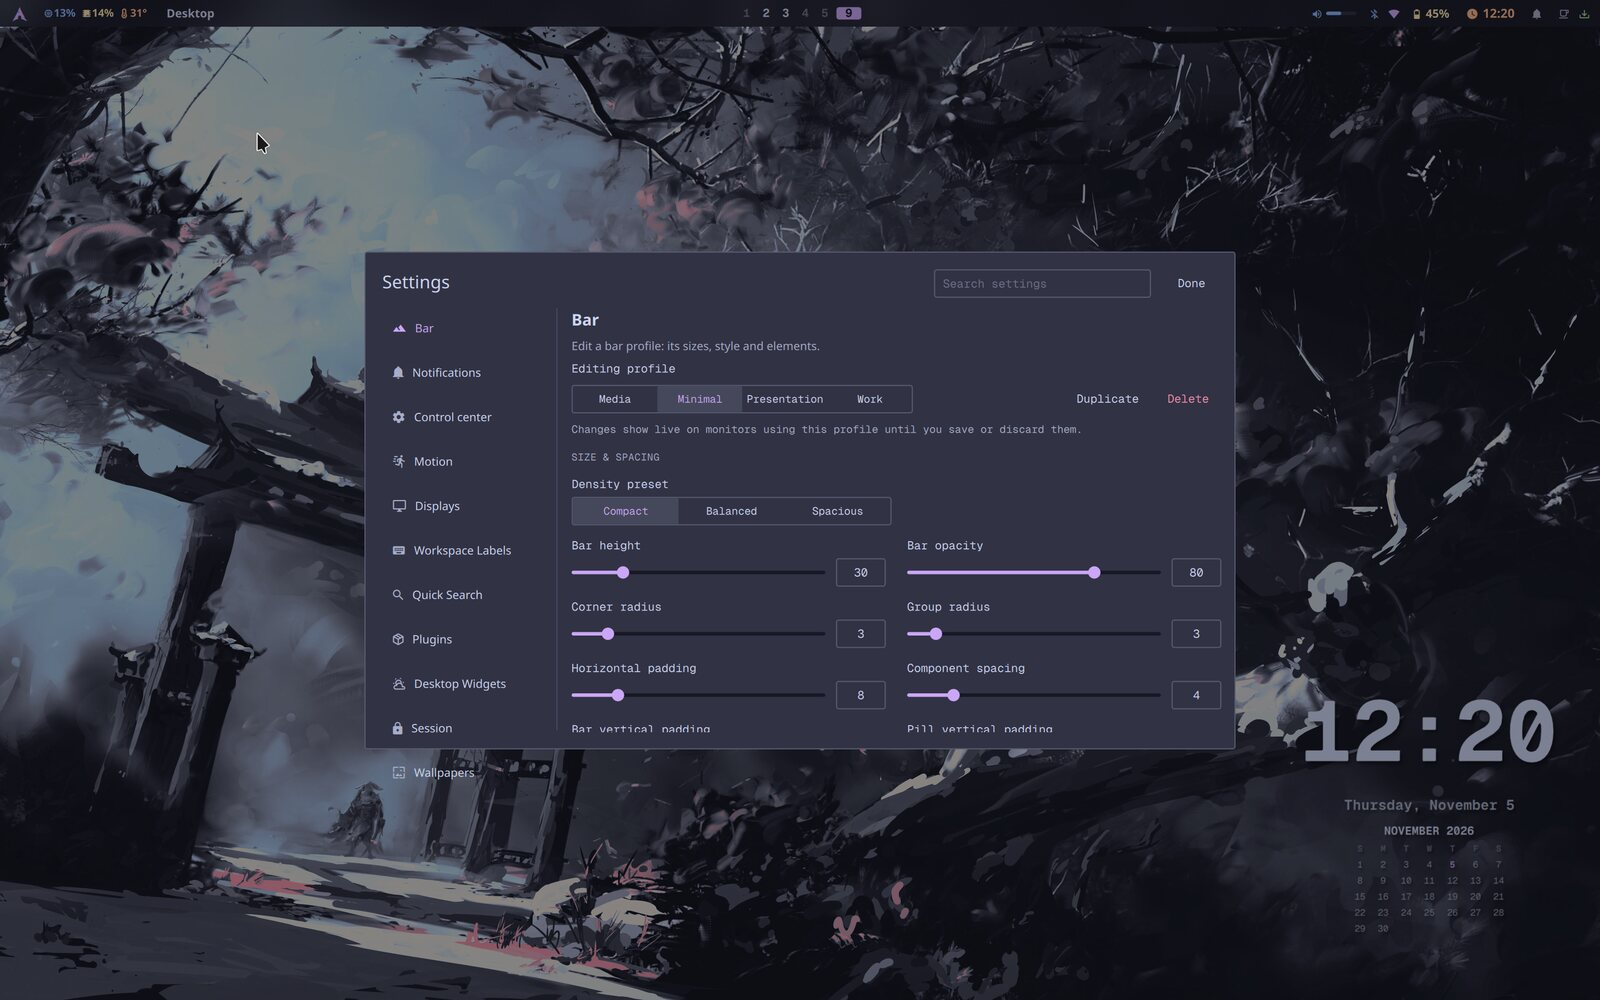
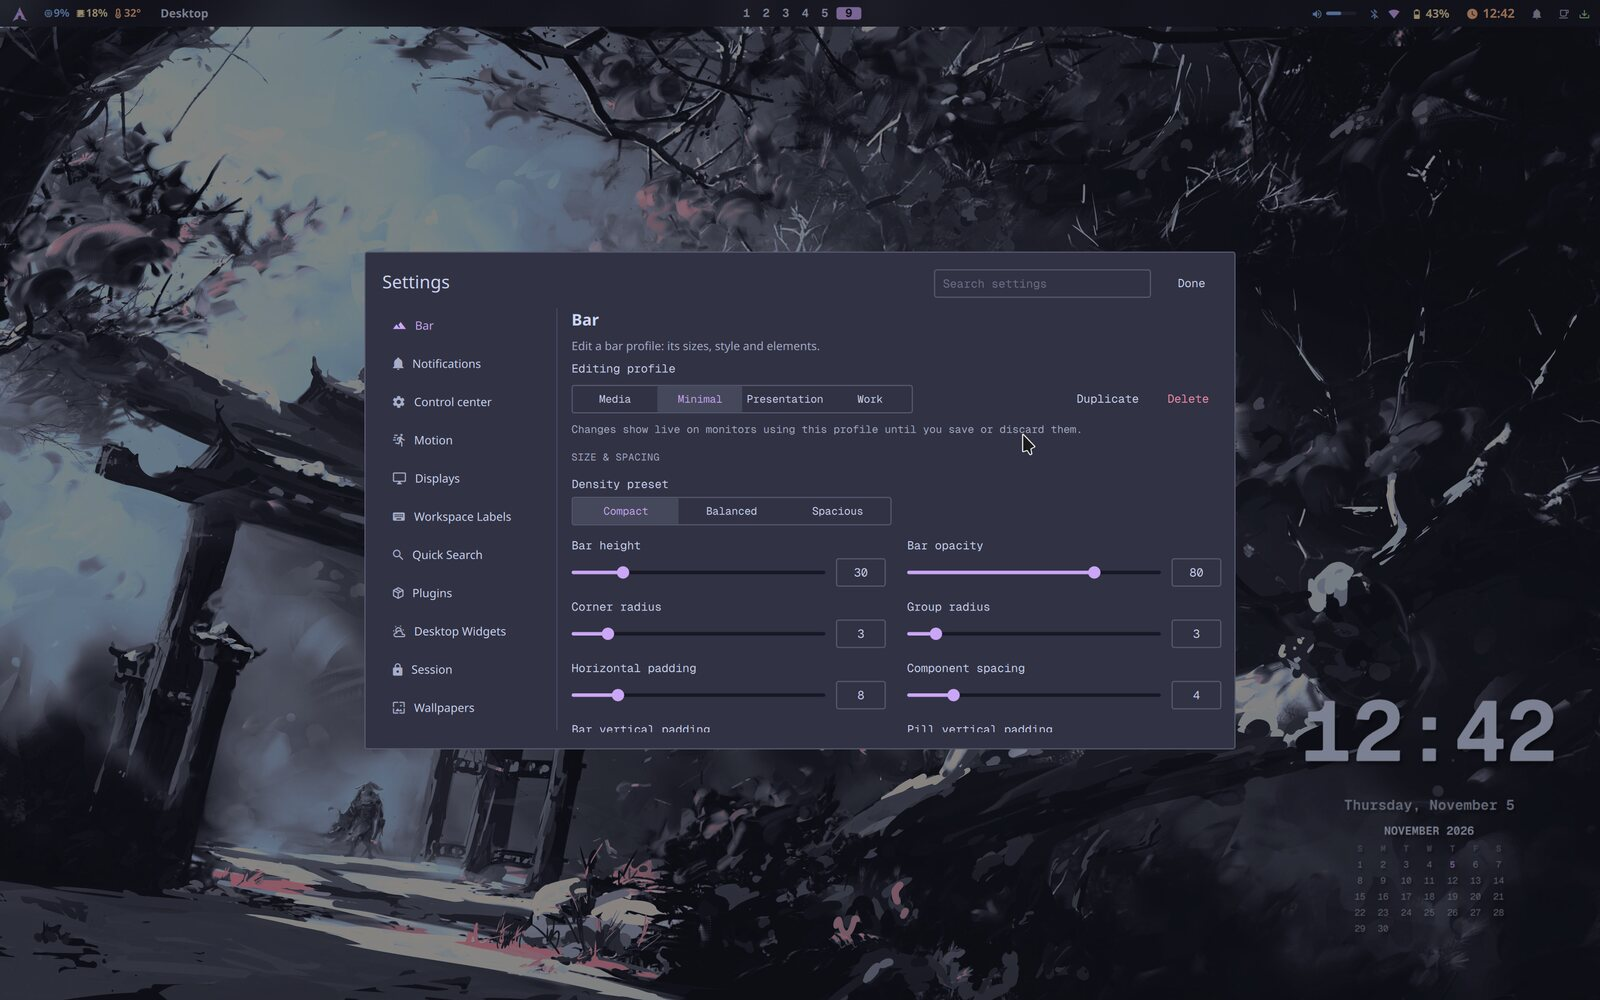
fix(quickshell): every settings section fits in the sidebar
The sidebar's 11 rows needed 534px of the 474px available, so Wallpapers
was drawn past the panel's edge. Shorter rows fit them all, and the
sidebar now scrolls inside the panel if the list ever grows past it.

diff --git a/common/.config/quickshell/components/panels/ConfigPanel.qml b/common/.config/quickshell/components/panels/ConfigPanel.qml
@@ -202,55 +202,67 @@ Rectangle {
             height: parent.height - 46
             spacing: 16
 
-            Column {
+            Flickable {
+                objectName: "sectionSidebar"
                 width: 180
-                spacing: 6
+                height: parent.height
+                contentWidth: width
+                contentHeight: sectionList.implicitHeight
+                boundsBehavior: Flickable.StopAtBounds
+                clip: true
 
-                Repeater {
-                    model: root.filteredSections
+                Column {
+                    id: sectionList
 
-                    // The selected section shows in the accent text; only hover fills a row.
-                    delegate: SettingsRow {
-                        id: sectionRow
+                    width: parent.width
+                    spacing: 5
 
-                        required property var modelData
-                        readonly property bool selected: root.currentSection === sectionRow.modelData.section
+                    Repeater {
+                        model: root.filteredSections
 
-                        width: parent.width
-                        height: 44
-                        appearance: root.appearance
+                        // The selected section shows in the accent text; only hover fills a row.
+                        delegate: SettingsRow {
+                            id: sectionRow
 
-                        Row {
-                            anchors.fill: parent
-                            anchors.leftMargin: 12
-                            spacing: 10
+                            required property var modelData
+                            readonly property bool selected: root.currentSection === sectionRow.modelData.section
 
-                            Text {
-                                anchors.verticalCenter: parent.verticalCenter
-                                text: sectionRow.modelData.icon
-                                color: sectionRow.selected ? theme.accent : theme.textMuted
-                                font.pixelSize: 16
+                            width: parent.width
+                            height: 38
+                            appearance: root.appearance
+
+                            Row {
+                                anchors.fill: parent
+                                anchors.leftMargin: 12
+                                spacing: 10
+
+                                Text {
+                                    anchors.verticalCenter: parent.verticalCenter
+                                    text: sectionRow.modelData.icon
+                                    color: sectionRow.selected ? theme.accent : theme.textMuted
+                                    font.pixelSize: 16
+                                }
+
+                                Text {
+                                    anchors.verticalCenter: parent.verticalCenter
+                                    text: sectionRow.modelData.label
+                                    color: sectionRow.selected ? theme.accent : theme.text
+                                    font.pixelSize: root.appearance.textSize
+                                }
                             }
 
-                            Text {
-                                anchors.verticalCenter: parent.verticalCenter
-                                text: sectionRow.modelData.label
-                                color: sectionRow.selected ? theme.accent : theme.text
-                                font.pixelSize: root.appearance.textSize
+                            TapHandler {
+                                onTapped: root.selectSection(sectionRow.modelData.section)
                             }
-                        }
-
-                        TapHandler {
-                            onTapped: root.selectSection(sectionRow.modelData.section)
                         }
                     }
-                }
 
-                SettingsHint {
-                    width: parent.width
-                    visible: root.filteredSections.length === 0
-                    appearance: root.appearance
-                    text: "No settings match this search."
+                    SettingsHint {
+                        width: parent.width
+                        visible: root.filteredSections.length === 0
+                        appearance: root.appearance
+                        text: "No settings match this search."
+                    }
                 }
             }
 

diff --git a/common/.config/quickshell/tests/tst_configPanel.qml b/common/.config/quickshell/tests/tst_configPanel.qml
@@ -62,6 +62,27 @@ TestCase {
         verify(textOf(item, "Settings"));
     }
 
+    function test_everySectionFitsInTheSidebarWithoutScrolling() {
+        const item = createTemporaryObject(panel, this);
+        const sections = item.sections.map(section => section.label);
+        verify(sections.includes("Wallpapers"));
+        for (const label of sections) {
+            const row = textOf(item, label);
+            const bottom = row.mapToItem(item, 0, row.height).y;
+            verify(bottom <= item.height - 20, label + " ends at " + bottom + ", past the panel");
+        }
+    }
+
+    // A longer list scrolls inside the panel instead of drawing past its edge.
+    function test_theSidebarKeepsItsRowsInsideThePanel() {
+        const item = createTemporaryObject(panel, this);
+        const sidebar = all(item, child => child.objectName === "sectionSidebar")[0];
+        verify(sidebar !== undefined, "the sidebar doesn't scroll");
+        verify(sidebar.clip, "the sidebar draws past its edge");
+        compare(sidebar.width, 180);
+        verify(sidebar.mapToItem(item, 0, sidebar.height).y <= item.height - 20);
+    }
+
     function test_searchingForAnimationsFindsTheMotionSection() {
         const item = createTemporaryObject(panel, this, { sectionQuery: "animation" });
 
